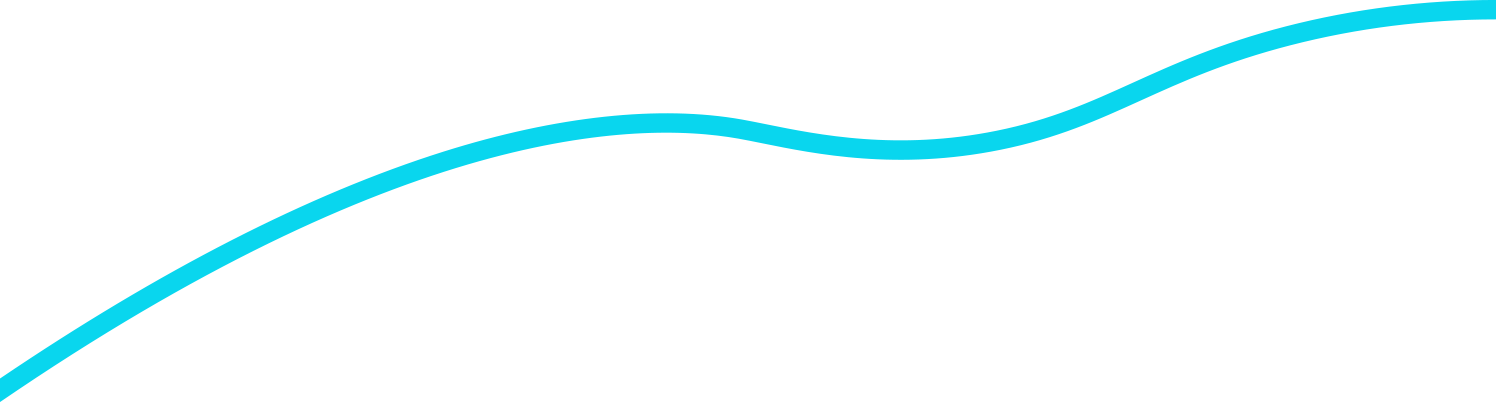
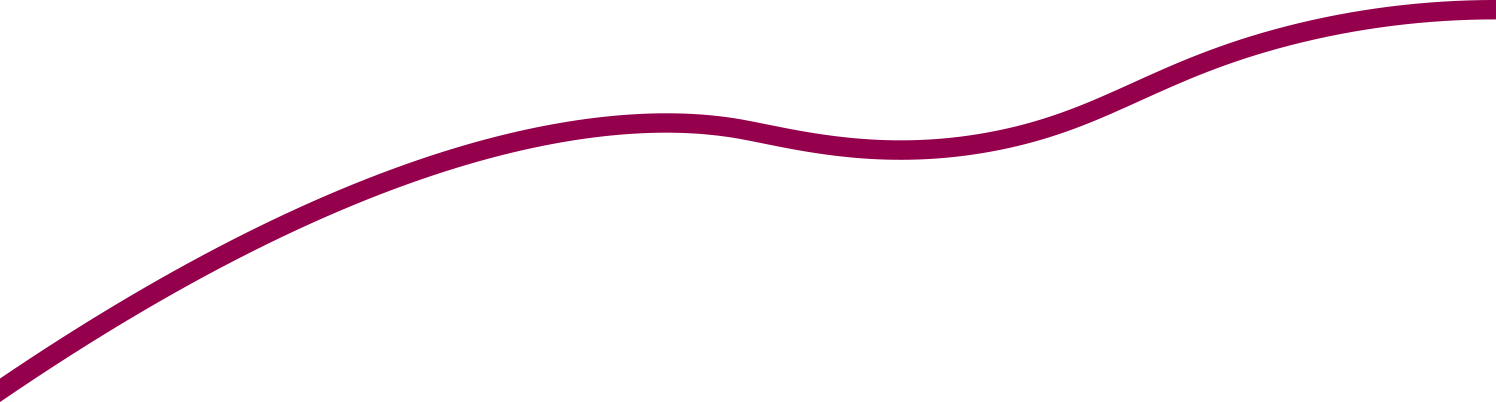
Updated styles for AbbVie demo and created new keymessages for abbvie version

Changed region(s): [[0.0, 0.0, 1.0, 1.0]]

diff --git a/src/js/s3-2.js b/src/js/s3-2.js
@@ -21,7 +21,11 @@ var s3_2 = {
 
 		//Draw the large polygon to the canvas
 		var c1 = document.getElementById("hexCanvasLarge").getContext('2d');
-		c1.fillStyle = '#0ad7ef';
+		c1.fillStyle = '#b01f5f';
+		c1.shadowColor = '#8b194b';
+	      c1.shadowBlur = 10;
+	      c1.shadowOffsetX = 0;
+	      c1.shadowOffsetY = 0;
 		c1.beginPath();
 		c1.moveTo(s3_2.polyLarge[0].x, s3_2.polyLarge[0].y);
 		for (var i = 1; i <= 5; i++ ){
@@ -32,8 +36,8 @@ var s3_2 = {
 
 		//Draw the small polygon to the canvas
 		var c2 = document.getElementById("hexCanvasSmall").getContext('2d');
-		c2.fillStyle = '#8dec6b';
-		c2.shadowColor = '#777';
+		c2.fillStyle = '#9b7a69';
+		c2.shadowColor = '#8b194b';
 	      c2.shadowBlur = 50;
 	      c2.shadowOffsetX = 0;
 	      c2.shadowOffsetY = 0;

diff --git a/src/js/s2-2.js b/src/js/s2-2.js
@@ -45,9 +45,9 @@ var s2_2 = {
 		$(".data-opt" + i).html(s2_2.optVals[i-1].count);
 	},
 	createGraph: function(scale){
-		s2_2.drawGraph("1", 475, "#5c7cde", scale);
-		s2_2.drawGraph("2", 350, "#b2bb1c", scale);
-		s2_2.drawGraph("3", 225, "#324683", scale);
+		s2_2.drawGraph("1", 350, "#ab3f63", scale);
+		s2_2.drawGraph("2", 475, "#9b7a69", scale);
+		s2_2.drawGraph("3", 225, "#b01f5f", scale);
 	},
 	drawGraph: function(group, offset, clr, scale){
 		var verticalBottom = 450;
@@ -67,6 +67,9 @@ var s2_2 = {
 		
 		ctx.clearRect(0, 0, c.width, c.height);
 		ctx.fillStyle = clr;
+		if (group == "1"){
+			ctx.globalAlpha = 0.8;
+		}
 		ctx.shadowColor = '#444';
 	      ctx.shadowBlur = 30;
 	      ctx.shadowOffsetX = 10;

diff --git a/src/less/s2-2.less b/src/less/s2-2.less
@@ -7,7 +7,7 @@
 		position:absolute;
 	}
 	.data{
-		color:#427f2c;
+		color:#fff;
 		font-size:25px;
 		line-height:25px;
 		width:50px;
